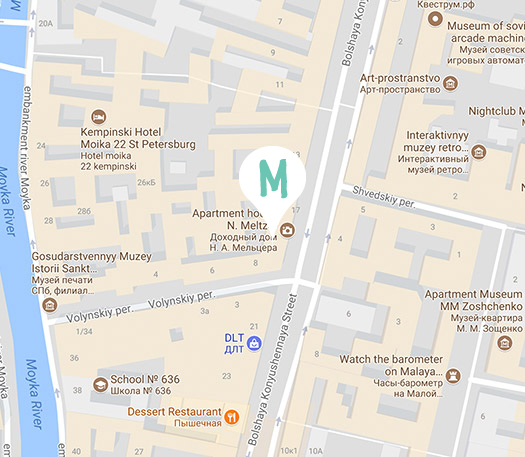
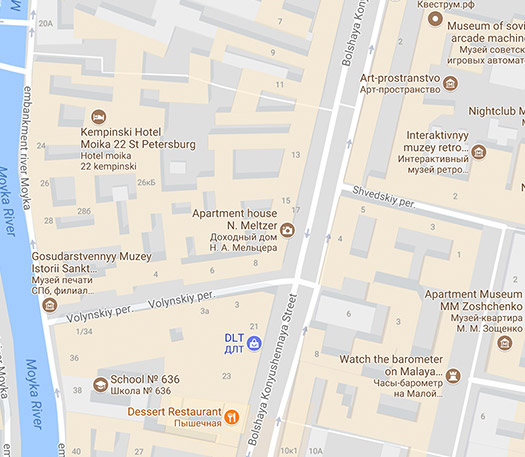
Адаптивная графика (4)

Changed region(s): [[0.4571, 0.3063, 0.6095, 0.5208]]

diff --git a/source/less/contacts.less b/source/less/contacts.less
@@ -68,6 +68,21 @@
   margin-top: 22px;
 }
 
+.contacts__link-map::after {
+  content: "";
+
+  position: absolute;
+  top: 144px;
+  left: 43%;
+  z-index: 2px;
+
+  width: 70px;
+  height: 100px;
+
+  background-image: url("../img/icon-map-pin.svg");
+  background-repeat: no-repeat;
+}
+
 @media (min-width: @tablet-width) {
   .contacts {
     margin-top: 64px;
@@ -129,6 +144,11 @@
     padding-right: 42px;
     padding-bottom: 14px;
     padding-left: 34px;
+  }
+
+  .contacts__link-map::after {
+    top: 158px;
+    left: 47%;
   }
 }
 
@@ -200,6 +220,11 @@
   .contacts__link-map {
     margin-top: -90px;
     margin-left: 18px;
+
+    &::after {
+      top: 52px;
+      left: 48%;
+    }
   }
 
   .contacts__image-map {

diff --git a/source/less/popap-basket.less b/source/less/popap-basket.less
@@ -35,7 +35,7 @@
   border: 1px solid #c7c7c7;
   box-shadow: 0 5px 10px 0 rgba(0, 1, 1, 0.25);
 
-  transform: translateY(75%);
+  transform: translateY(50%);
 }
 
 .popap-basket__title {
